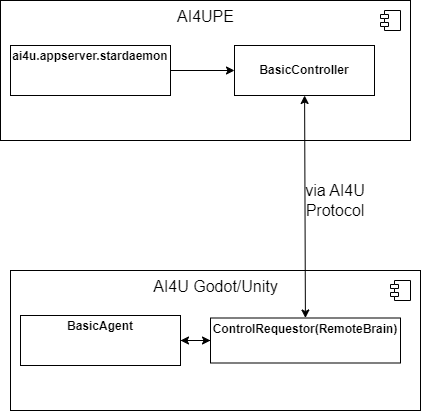
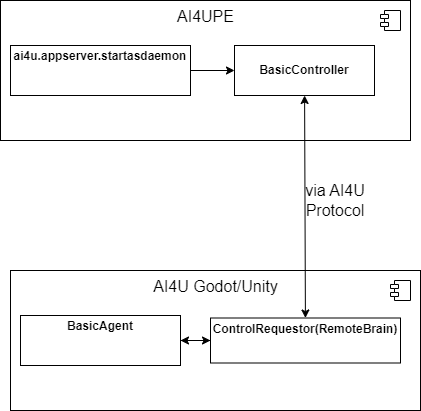
docs

Changed region(s): [[0.0309, 0.1168, 0.4632, 0.1752], [0.4014, 0.2044, 0.4632, 0.2336]]

diff --git a/ai4upe/doc/PTBR/README.md b/ai4upe/doc/PTBR/README.md
@@ -7,22 +7,20 @@ Neste guia, mostramos a arquitetura do componente da AI4U chamado de AI4U Python
 
 ## Arquitetura 
 
-AI4UPE permite controlar um agente na Unity e na Godot de uma maneira similar. Você não precisa ter dois scripts diferentes, pois o protocolo de comunicação entre o código Python e o motor de jogos é o mesmo, tanto faz ser Unity quanto Godot. Para isso, é importante entender que todo agente no ambiente tem um identificador (ID). E cada agente no ambiente tem um controlador que implementa o protocolo da AI4UPE. Em Python, para controlar o agente, deve-se criar um objeto controlador que é inicializado pelo método *startdaemon* do pacote *ai4u.appserver*. O controlador interpreta o estado do ambiente percebido pelo agente criado dentro do motor de jogos e envia as ações no formato que este agente compreenda. Observe que é papel do programador ajustar o nome, tipo e formato das percepções (dados enviados pelos sensores) e das ações (dados enviados aos atuadores) do agente.
+AI4UPE permite controlar um agente na Unity e na Godot de uma maneira similar. Você não precisa ter dois scripts diferentes, pois o protocolo de comunicação entre o código Python e o motor de jogos é o mesmo, tanto faz ser Unity quanto Godot. Para isso, é importante entender que todo agente no ambiente tem um identificador (ID). E cada agente no ambiente tem um controlador que implementa o protocolo da AI4UPE. Em Python, para controlar o agente, deve-se criar um objeto controlador que é inicializado pelo método *startasdaemon* do pacote *ai4u.appserver*. O controlador interpreta o estado do ambiente percebido pelo agente criado dentro do motor de jogos e envia as ações no formato que este agente compreenda. Observe que é papel do programador ajustar o nome, tipo e formato das percepções (dados enviados pelos sensores) e das ações (dados enviados aos atuadores) do agente.
 
 Portanto, AI4U possui uma arquitetura resumida na Figura 1.
 
 ![Arquitetura da AI4U](../img/ai4ucomps.png)
 
-*Figure 1. Arquitetura da AI4U mostrando os seus quatro componentes principais: a função ai4u.appserver.startdaemon (resumidamente, startdaemon), um objeto que herda de BasicController que é inicializado pela função stardaemon, um objeto do tipo ControlRequestor associado a um item de jogo (agente) controlado pelo objeto do tipo BasicAgent*.
+*Figure 1. Arquitetura da AI4U mostrando os seus quatro componentes principais: a função ai4u.appserver.startasdaemon (resumidamente, startasdaemon), um objeto que herda de BasicController que é inicializado pela função stardaemon, um objeto do tipo ControlRequestor associado a um item de jogo (agente) controlado pelo objeto do tipo BasicAgent*.
 
 BasicController é a classe ai4u.agents.BasicController e provê a interface básica para controlar um agente do tipo BasicAgent. BasicController usa o protocolo da AI4UPE para abstrair a comunicação entre o código em Python e o agente criado no motor de jogos.
 
 # Exemplo
 Neste diretório [examples/ai4upe](/examples/ai4upe), há exemplos de controladores para três cenas. A cena *scene_samplescene* está implementada tanto em Godot quanto an Unity. O código (reference ao arquivo app.py) pode controlar por meio de comandos manuais o agente representado pelo corpo de capsula com seta mostrado na Figura 2 (o lado esquerdo tem o agente em Godot e o lado direito, em Unity).
 
-
 ![Agent](/ai4upe/doc/img/agentgu.png)
-
 
 Primeiramente importamos os módulos que contém os componentes de que precisamos.
 
@@ -35,5 +33,19 @@ from ai4u import utils
 
 O componente *SimpleController* herda de ai4u.agents.*BasicController* e implementa uma forma específica de comunicação com os agentes das cenas do projeto [AI4UTesting](/examples/Unity/) e do projeto [AI4GTesting](/examples/Godot/). O componente *utils*, dentre outras funcionalidades, provê a função import_getch, que pode ser usada no lugar da entrada padrão em Python.
 
-Depois de importar as bibliotecas a 
+Depois de importar os módulos necessários, deve-se instanciar o controlador e especificar o ID do agente controlado:
 
+```
+# neste caso há apenas um identificar, pois há apenas um agente.
+ids = ["0"] 
+
+# há um controlador para cada agente.
+# Observe que informamos a classe e não o objeto.
+controllers_classes =  [SimpleController]
+
+#O método startasdaemon criar uma instância do controlador e o iniciliza em uma thread separada. 
+
+controller = startasdaemon(ids, controllers_classes)[0]
+```
+
+O método *startasdaemon* recebe a lista de identificadores de agente e uma lista de controladores correspondentes e então instancia o controlador em uma *thread* do tipo *daemon* e retorna a lista de objetos controladores instanciados. Na última linha de código, obtemos na mesma linha o único controlador retornado. Com este objeto, podemos enviar comandos para o agente modelado no motor de jogos e que roda em uma instância do jogo que criamos:
